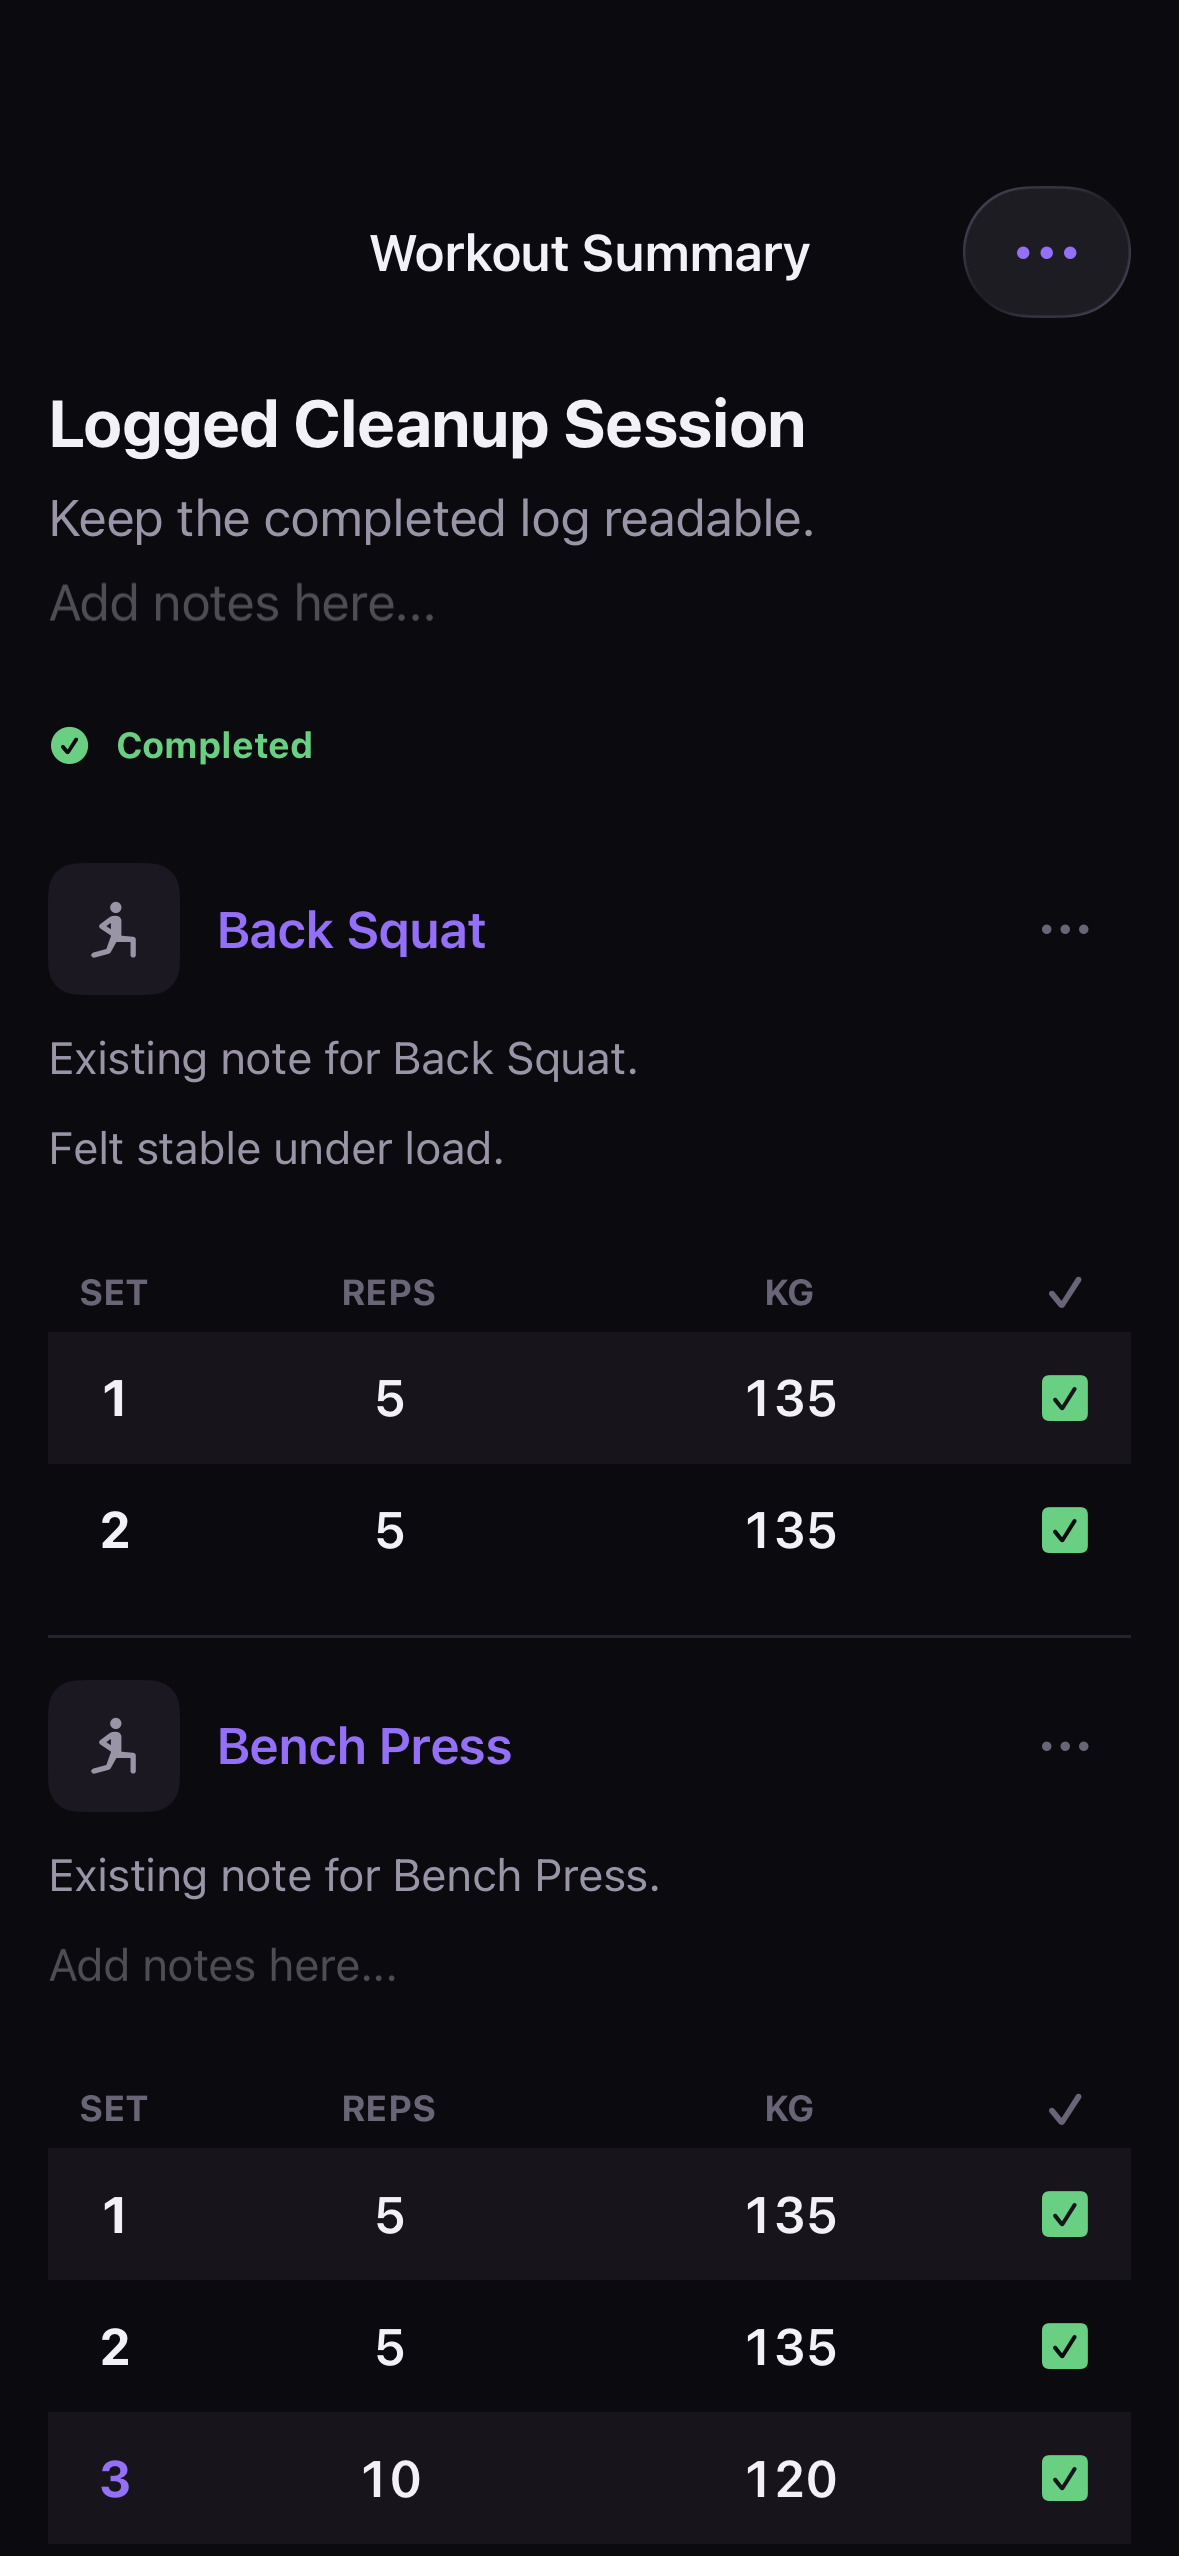
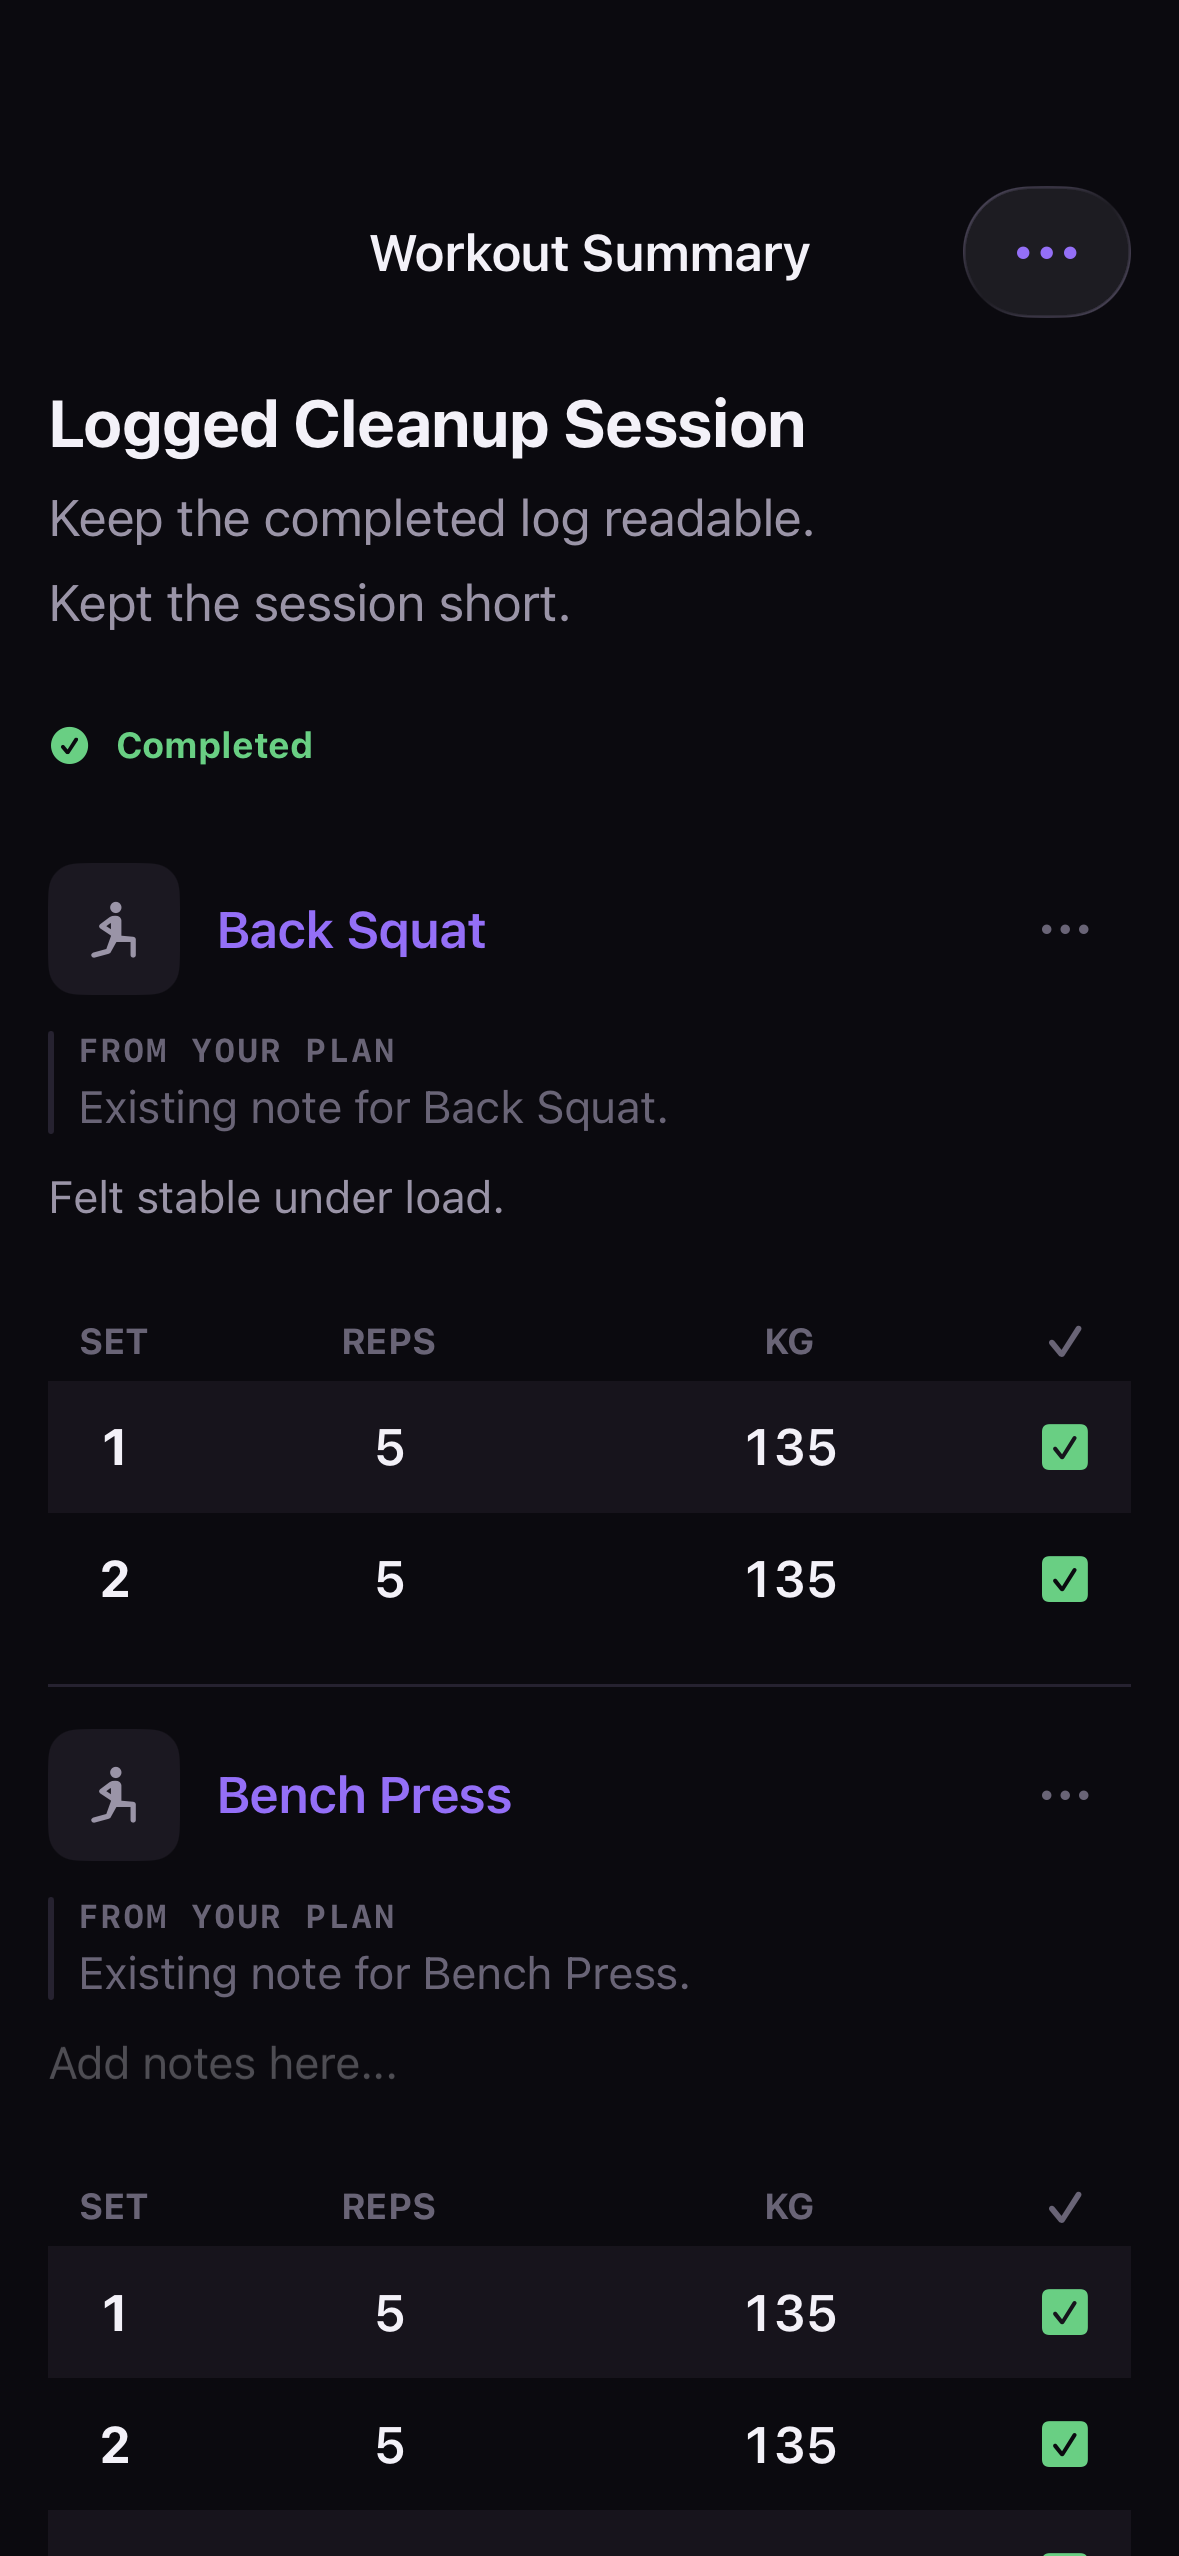
no-mistakes(review): differentiate plan notes; count session notes as logged work

diff --git a/Baseline/Features/Workout/StructuredWorkoutView.swift b/Baseline/Features/Workout/StructuredWorkoutView.swift
@@ -856,12 +856,12 @@ private struct WorkoutExerciseSection: View {
             isPresented: $showRemoveConfirmation,
             titleVisibility: .visible
         ) {
-            Button("Remove and Discard Sets", role: .destructive) {
+            Button(removeConfirmationTitle, role: .destructive) {
                 store.removeExerciseFromWorkout(exercise.id, scope: mode.editScope)
             }
             Button("Cancel", role: .cancel) {}
         } message: {
-            Text("You have already logged sets for this exercise. Removing it from this workout discards them.")
+            Text(removeConfirmationMessage)
         }
     }
 
@@ -910,6 +910,16 @@ private struct WorkoutExerciseSection: View {
         }
     }
 
+    private var removeConfirmationTitle: String {
+        store.hasLoggedSets(forExercise: exercise.id) ? "Remove and Discard Sets" : "Remove and Discard Note"
+    }
+
+    private var removeConfirmationMessage: String {
+        store.hasLoggedSets(forExercise: exercise.id)
+            ? "You have already logged sets for this exercise. Removing it from this workout discards them."
+            : "You have written a note for this exercise. Removing it from this workout discards it."
+    }
+
     private var skippedStateLabel: String {
         guard groupID != nil else { return "Removed from this workout" }
         return adjustment?.iteration == nil ? "Removed from every round" : "Removed from this round"
@@ -943,11 +953,18 @@ private struct WorkoutExerciseSection: View {
     @ViewBuilder private var plannedNotesText: some View {
         let notes = plannedNotesValue
         if !notes.isEmpty {
-            Text(notes)
-                .font(.subheadline)
-                .foregroundStyle(BaselineColor.textMid)
-                .fixedSize(horizontal: false, vertical: true)
-                .accessibilityLabel("Notes for \(presentedExercise.exerciseName). \(notes)")
+            if mode.usesPerformedData {
+                WorkoutPlanNote(
+                    text: notes,
+                    accessibilityLabel: "Plan note for \(presentedExercise.exerciseName)"
+                )
+            } else {
+                Text(notes)
+                    .font(.subheadline)
+                    .foregroundStyle(BaselineColor.textMid)
+                    .fixedSize(horizontal: false, vertical: true)
+                    .accessibilityLabel("Notes for \(presentedExercise.exerciseName). \(notes)")
+            }
         }
     }
 

diff --git a/BaselineTests/PlanRepositoryTests.swift b/BaselineTests/PlanRepositoryTests.swift
@@ -228,6 +228,40 @@ struct PlanRepositoryTests {
         #expect(repo.mostRecentPerformance(exerciseDefinitionID: "nonexistent", before: cal.date(byAdding: .day, value: 1, to: monday)!) == nil)
     }
 
+    /// A session where the athlete only wrote a note still produces a performed record, and that record
+    /// must not become the "previous" hint — it would hide the last session that actually had numbers.
+    @Test func previousPerformanceSkipsASessionThatLoggedOnlyANote() {
+        let repo = makeRepo()
+        let prog = repo.addProgram(Program(name: "P", createdAt: monday))
+        let withSets = seed(repo, date: monday, program: prog.id)
+        let setExercise = withSets.workout.allExercises.first!
+        repo.startSession(forScheduled: withSets.id, now: monday)
+        repo.updateSessionLog(forScheduled: withSets.id) { log in
+            log.upsertSetLog(forPlanned: setExercise.id, name: setExercise.exerciseName,
+                             plannedSetID: setExercise.prescription.sets[0].id) { s in
+                s.values[.load] = 100; s.values.setInt(.reps, 5); s.completed = true
+            }
+        }
+        _ = repo.completeSession(forScheduled: withSets.id, acknowledgingOpenWork: true, now: monday)
+
+        let tuesday = cal.date(byAdding: .day, value: 1, to: monday)!
+        let notesOnly = seed(repo, date: tuesday, program: prog.id)
+        let notedExercise = notesOnly.workout.allExercises.first!
+        repo.startSession(forScheduled: notesOnly.id, now: tuesday)
+        repo.updateSessionLog(forScheduled: notesOnly.id) { log in
+            log.setNotes("Shoulder felt off, skipped the working sets",
+                         forPlanned: notedExercise.id, name: notedExercise.exerciseName)
+        }
+        _ = repo.completeSession(forScheduled: notesOnly.id, acknowledgingOpenWork: true, now: tuesday)
+
+        let prev = repo.mostRecentPerformance(
+            exerciseDefinitionID: "deadlift",
+            before: cal.date(byAdding: .day, value: 2, to: monday)!
+        )
+        #expect(prev?.date == monday)
+        #expect(prev?.sets.first?[.load] == 100)
+    }
+
     /// Drives the two-step delete (propose → confirm) the UI uses, returning nothing but asserting the
     /// erase applied. Keeps the cascade tests below focused on *what* the delete removes.
     @discardableResult

diff --git a/BaselineTests/WorkoutSessionEditingTests.swift b/BaselineTests/WorkoutSessionEditingTests.swift
@@ -538,6 +538,42 @@ struct WorkoutSessionEditingTests {
         #expect(plan.scheduledWorkout(id)?.workout.allExercises.map(\.exerciseName) == ["Squat", "Bench press"])
     }
 
+    /// The notes the athlete types on the logging screen have to be there when they come back to it —
+    /// a relaunch, or reopening the completed summary. Both levels persist with the session log.
+    @Test func sessionNotesSurviveALaunchAndComeBackToTheSameFields() async {
+        let (plan, store, id) = startedSession()
+        let ex = store.current!.allExercises[0]
+        store.editLog {
+            $0.setNotes("Legs heavy from yesterday")
+            $0.setNotes("Dropped to 90kg", forPlanned: ex.id, name: ex.exerciseName)
+        }
+
+        let relaunched = buffer()
+        relaunched.bind(plan.sink(forScheduled: id), coalesceContent: false)
+
+        #expect(relaunched.currentLog?.notesText == "Legs heavy from yesterday")
+        #expect(relaunched.currentLog?.performed(forPlanned: ex.id)?.notesText == "Dropped to 90kg")
+
+        await finishAndDecline(relaunched)
+        #expect(relaunched.currentLog?.notesText == "Legs heavy from yesterday")
+        #expect(plan.completed(for: id)?.log.notesText == "Legs heavy from yesterday")
+    }
+
+    /// A note the athlete typed is logged work: removing the exercise mid-session must warn before it
+    /// discards one, exactly as it does for logged sets.
+    @Test func aTypedSessionNoteCountsAsLoggedWork() {
+        let (_, store, _) = startedSession()
+        let ex = store.current!.allExercises[0]
+
+        #expect(store.hasLoggedWork(forExercise: ex.id) == false)
+
+        store.editLog { $0.setNotes("Tweaked my back on the warm-up", forPlanned: ex.id, name: ex.exerciseName) }
+
+        #expect(store.hasLoggedWork(forExercise: ex.id))
+        #expect(store.hasLoggedSets(forExercise: ex.id) == false)
+        #expect(store.hasLoggedWork(inBlock: store.current!.blocks[0].id))
+    }
+
     /// A fresh store bound after the workout is over — the app relaunching, then the agent asked to
     /// change today's plan. Nothing in the completed session may be rewritten.
     @Test func aStoreReboundAfterCompletionEditsThePlanNotTheFinishedSession() async {

diff --git a/BaselineTests/WorkoutCompletedSummaryRenderTests.swift b/BaselineTests/WorkoutCompletedSummaryRenderTests.swift
@@ -20,14 +20,19 @@ struct WorkoutCompletedSummaryRenderTests {
         #expect(screen.hasLabel(containing: "Pull-Up"))
         #expect(screen.hasLabel(containing: "Run"))
         #expect(screen.hasLabel(containing: "Notes for Back Squat"))
-        #expect(screen.hasAccessibleText(containing: "Existing note for Back Squat."))
         #expect(screen.hasAccessibleText(containing: "Felt stable under load."))
+        // The workout-level note the athlete typed is read back into the field they typed it in.
+        #expect(screen.hasAccessibleText(containing: "Kept the session short."))
         // The note the athlete typed stays a performed fact; it is never folded into the plan's guidance.
         #expect(screen.performedNotes(forExerciseAt: 0) == ["Felt stable under load."])
         #expect(screen.plannedNotes(forExerciseAt: 0) == ["Existing note for Back Squat."])
+        // The plan's own note is read-only context, announced as such rather than as a second Notes field.
+        #expect(screen.hasLabel(containing: "Plan note for Back Squat. Existing note for Back Squat."))
+        #expect(screen.hasLabel(containing: "Notes for Back Squat. Existing note") == false)
         #expect(screen.hasLabel(containing: "Set completed"))
         #expect(screen.canFocusInput(labelled: "Workout notes"))
         #expect(screen.canFocusInput(labelled: "Notes for Back Squat"))
+        #expect(screen.canFocusInput(labelled: "Plan note for Back Squat") == false)
 
         #expect(screen.hasLabel(containing: "Done") == false)
         #expect(screen.hasLabel(containing: "Modified") == false)
@@ -132,6 +137,8 @@ private final class CompletedWorkoutSummaryScreen: HostedScreen {
         guard exercises.count == 4 else { return }
 
         store.editLog { log in
+            log.setNotes("Kept the session short.")
+
             logSet(for: exercises[0], in: &log, outcome: .completed)
             log.setStatus(.completed, forPlanned: exercises[0].id, name: exercises[0].exerciseName)
             log.addNote(

diff --git a/Baseline/Features/Workout/WorkoutNotesField.swift b/Baseline/Features/Workout/WorkoutNotesField.swift
@@ -1,5 +1,32 @@
 import SwiftUI
 
+/// The plan's own note, rendered as quiet read-only context above the athlete's editable session
+/// note. The caption, the rule, and the fainter treatment are load-bearing: they are what tells the
+/// athlete — by sight and through VoiceOver — which of the two blocks accepts what they type.
+struct WorkoutPlanNote: View {
+    let text: String
+    var font: Font = .subheadline
+    var accessibilityLabel: String = "Plan note"
+
+    var body: some View {
+        VStack(alignment: .leading, spacing: 3) {
+            Text("FROM YOUR PLAN")
+                .font(.bMono(11, .bold)).tracking(0.8)
+                .foregroundStyle(BaselineColor.textFaint)
+            Text(text)
+                .font(font)
+                .foregroundStyle(BaselineColor.textFaint)
+                .fixedSize(horizontal: false, vertical: true)
+        }
+        .padding(.leading, 10)
+        .overlay(alignment: .leading) {
+            Capsule().fill(BaselineColor.line).frame(width: 2)
+        }
+        .accessibilityElement(children: .ignore)
+        .accessibilityLabel("\(accessibilityLabel). \(text)")
+    }
+}
+
 struct WorkoutNotesField: View {
     let prompt: String
     @Binding var text: String

diff --git a/Baseline/Features/Workout/WorkoutModel.swift b/Baseline/Features/Workout/WorkoutModel.swift
@@ -997,9 +997,18 @@ extension WorkoutLog {
         }
     }
 
-    /// Whether the log holds any actually-logged set for a planned exercise — the signal for confirming
-    /// before a destructive true-remove would discard real logged work.
+    /// Whether the log holds anything the athlete recorded for a planned exercise — logged sets or a
+    /// session note. This is the signal for confirming before a destructive true-remove would discard
+    /// real logged work, and a note they typed is real logged work.
     func hasLoggedWork(forPlanned plannedID: UUID) -> Bool {
+        guard let performed = performed(forPlanned: plannedID) else { return false }
+        return performed.setLogs.contains { !$0.values.isEmpty || $0.completed }
+            || !performed.notesText.isEmpty
+    }
+
+    /// Whether any logged *set* exists for a planned exercise, which is what a discard warning needs to
+    /// say honestly what is about to be lost.
+    func hasLoggedSets(forPlanned plannedID: UUID) -> Bool {
         performed(forPlanned: plannedID)?.setLogs.contains { !$0.values.isEmpty || $0.completed } ?? false
     }
 

diff --git a/Baseline/Features/Workout/WorkoutView.swift b/Baseline/Features/Workout/WorkoutView.swift
@@ -385,10 +385,14 @@ struct WorkoutView: View {
             }
 
             if let notes = workout.guidance?.notesText, !notes.isEmpty {
-                Text(notes)
-                    .font(.body)
-                    .foregroundStyle(BaselineColor.textMid)
-                    .fixedSize(horizontal: false, vertical: true)
+                if mode.usesPerformedData {
+                    WorkoutPlanNote(text: notes, font: .body, accessibilityLabel: "Plan note")
+                } else {
+                    Text(notes)
+                        .font(.body)
+                        .foregroundStyle(BaselineColor.textMid)
+                        .fixedSize(horizontal: false, vertical: true)
+                }
             }
 
             if mode.usesPerformedData {

diff --git a/Baseline/Shared/Settings/WorkoutStore.swift b/Baseline/Shared/Settings/WorkoutStore.swift
@@ -702,6 +702,11 @@ final class WorkoutStore {
         currentLog?.hasLoggedWork(forPlanned: exerciseID) ?? false
     }
 
+    /// Whether that work includes logged sets, so a discard warning can name what it is discarding.
+    func hasLoggedSets(forExercise exerciseID: UUID) -> Bool {
+        currentLog?.hasLoggedSets(forPlanned: exerciseID) ?? false
+    }
+
     /// Whether a block holds any exercise with real logged work — the confirm signal for block deletion.
     func hasLoggedWork(inBlock blockID: UUID) -> Bool {
         guard let log = currentLog, let block = current?.blocks.first(where: { $0.id == blockID }) else { return false }

diff --git a/Baseline/Shared/Services/PlanRepository.swift b/Baseline/Shared/Services/PlanRepository.swift
@@ -239,7 +239,9 @@ final class SwiftDataPlanRepository: PlanRepository {
     func mostRecentPerformance(exerciseDefinitionID: String, before: Date) -> ExercisePerformance? {
         let defID: String? = exerciseDefinitionID
         return fetch(SDCompletedExercise.self, where: #Predicate { $0.exerciseDefinitionID == defID && $0.date < before })
-            .sorted { $0.date > $1.date }.first.flatMap(mapPerformance)
+            .sorted { $0.date > $1.date }
+            .lazy.map(mapPerformance)
+            .first { $0.hasLoggedValues }
     }
 
     func history(exerciseDefinitionID: String, limit: Int) -> [ExercisePerformance] {

diff --git a/Baseline/Features/Plan/PlanModel.swift b/Baseline/Features/Plan/PlanModel.swift
@@ -184,4 +184,9 @@ struct ExercisePerformance: Identifiable, Codable, Equatable, Sendable {
     var exerciseDefinitionID: String?     // stable catalog identity
     var exerciseName: String
     var sets: [MetricValues]              // per-set actuals
+
+    /// Whether this row carries an actual the athlete could compare against. A performed record can
+    /// exist purely to hold a session note or a status, and a "previous" hint with no numbers in it
+    /// tells them less than showing nothing while hiding the session that did have numbers.
+    var hasLoggedValues: Bool { sets.contains { !$0.isEmpty } }
 }

diff --git a/Baseline/Features/Workout/WorkoutReorderSheet.swift b/Baseline/Features/Workout/WorkoutReorderSheet.swift
@@ -65,7 +65,7 @@ struct WorkoutReorderSheet: View {
             Button("Cancel", role: .cancel) { blockPendingDeletion = nil }
         } message: { block in
             Text(store.hasLoggedWork(inBlock: block.id)
-                 ? "This removes the block and the sets you have already logged in it."
+                 ? "This removes the block and the work you have already logged in it."
                  : "This removes the block and its exercises from this workout.")
         }
     }
